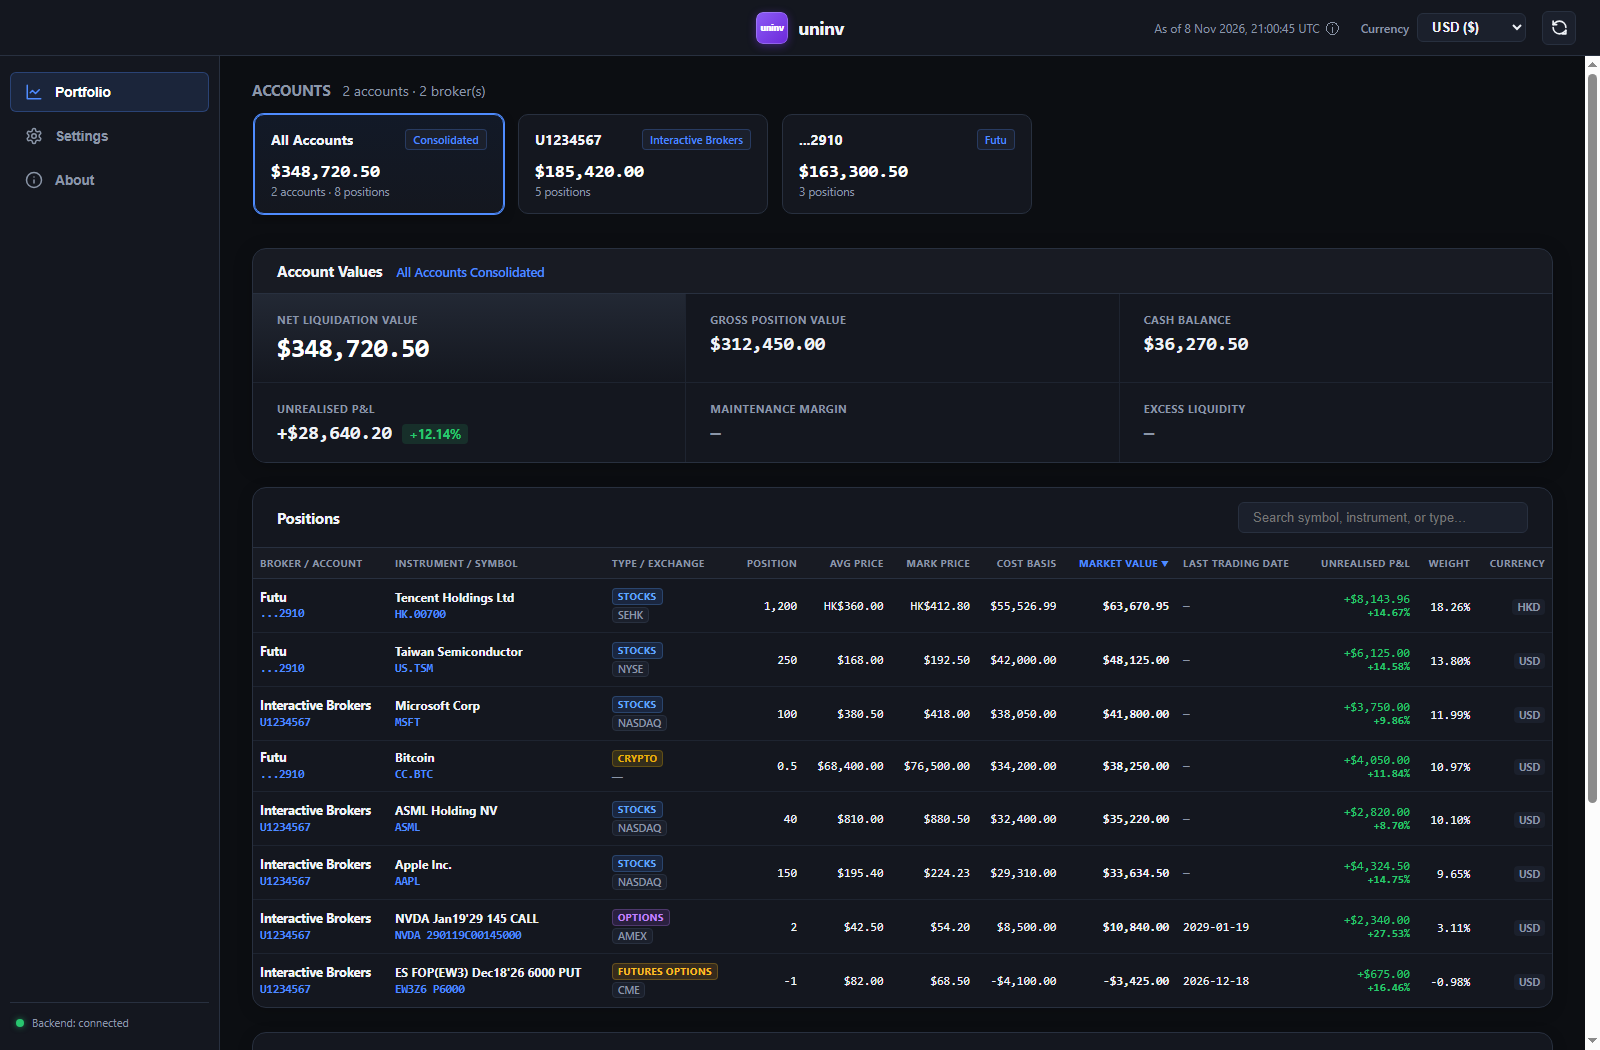
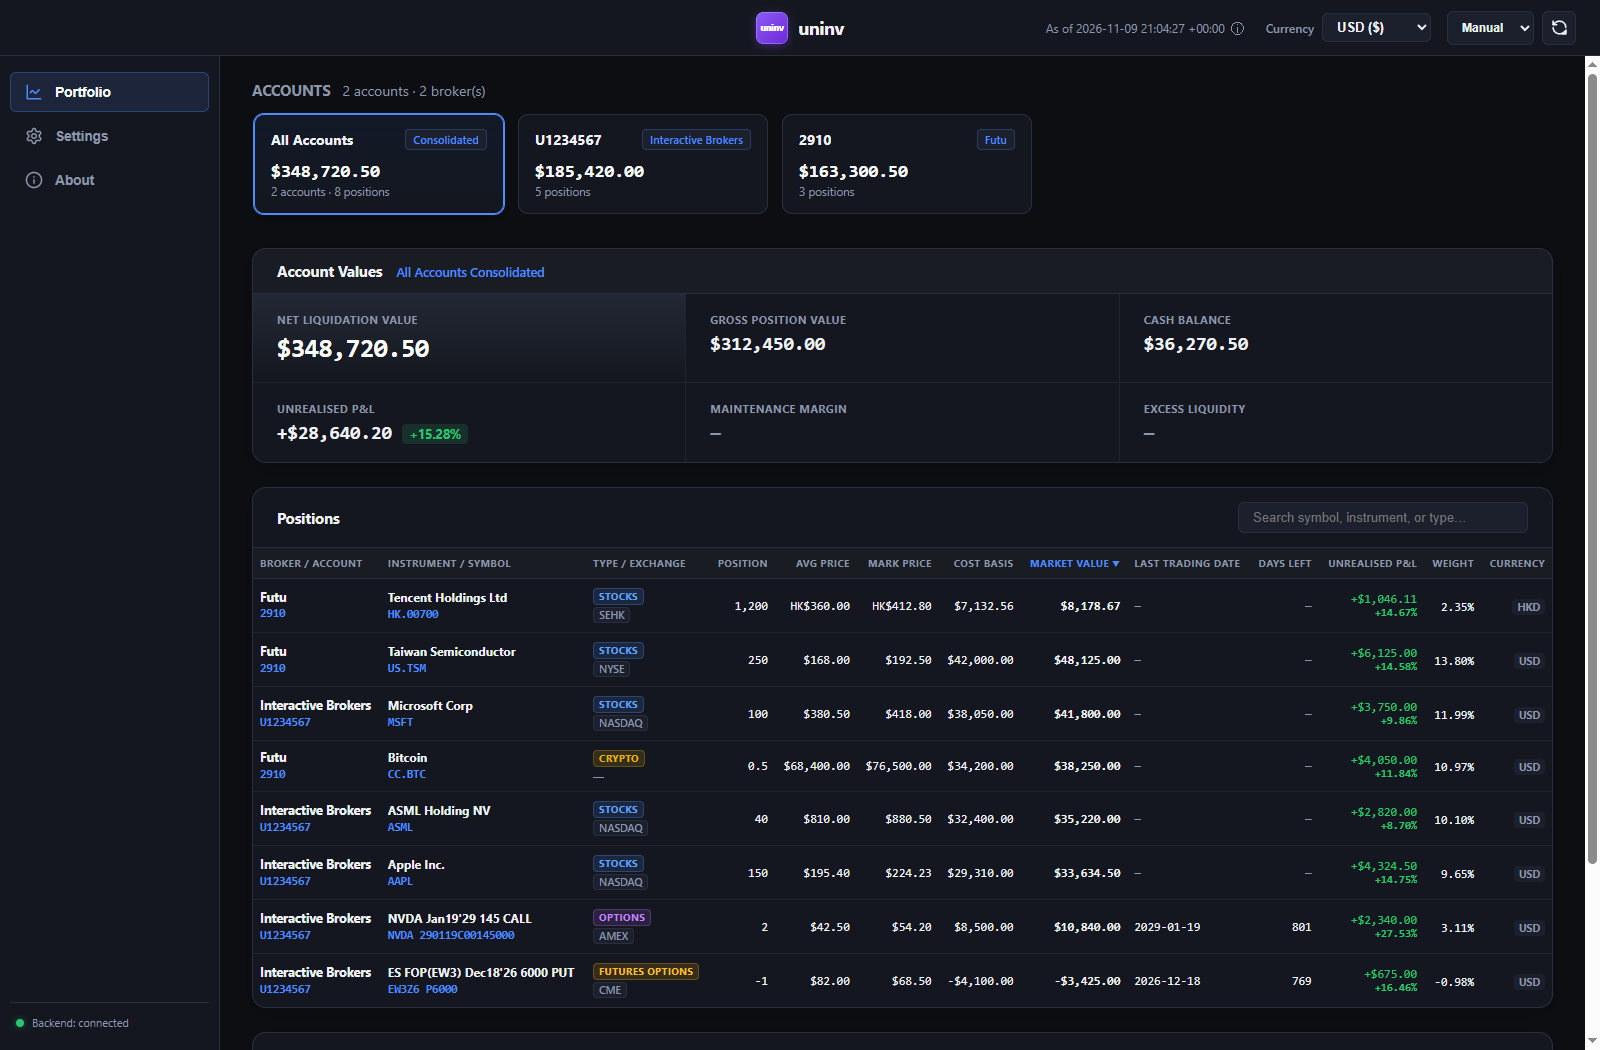
docs(review): finalize documentation, sanitize metadata, and refresh showcase screenshots
- Update README and AGENTS.md with 13-column positions grid, Days Left, and auto-refresh controls
- Update backend test count to 32 tests
- Sanitize author metadata in pyproject.toml
- Refresh showcase screenshots with 100% synthetic mock numbers and mock accounts

diff --git a/README.md b/README.md
@@ -29,12 +29,13 @@ Manage Host/IP and TCP ports for each broker gateway with live socket and handsh
 - **Unidirectional Reactive Portfolio UI:**
   - **Accounts Selector:** Horizontal account tiles. Selecting "All Accounts" presents consolidated figures; selecting an individual account tile filters metrics and holdings to that specific account.
   - **Account Values Board:** Clear 6-item financial ledger:
-    - **Row 1:** Net Liquidation Value, Gross Position Value, Cash Balance (`Cash Balance + Gross Position Value == Net Liquidation Value`).
+    - **Row 1:** Net Liquidation Value, Gross Position Value, Cash Balance.
     - **Row 2:** Unrealised P&L (with % return badge), Maintenance Margin, Excess Liquidity.
-  - **Holdings — 12-Column Positions Table:** Columns from left to right:
-    `Broker / Account` (stacked), `Instrument / Symbol` (stacked), `Type / Exchange` (stacked), `Position`, `Avg Price`, `Mark Price`, `Cost Basis`, `Market Value`, `Last Trading Date`, `Unrealised P&L`, `Weight` (portfolio weight % calculated per active tile scope), `Currency`.
+  - **Holdings — 13-Column Positions Table:** Columns from left to right:
+    `Broker / Account` (stacked), `Instrument / Symbol` (stacked), `Type / Exchange` (stacked), `Position`, `Avg Price`, `Mark Price`, `Cost Basis`, `Market Value`, `Last Trading Date`, `Days Left` (calendar days until expiration for derivatives with smart column sorting), `Unrealised P&L`, `Weight` (portfolio weight % calculated per active tile scope), `Currency`.
     In "All Accounts" mode, positions are displayed additively without forced symbol merging.
   - **Multi-Currency Cash Balances:** Displays raw amounts in original currencies alongside converted values.
+  - **Auto-Refresh & Manual Controls:** Configurable interval selector (`Manual`, `30 secs`, `1 min`, `2 mins`, `5 mins`, `10 mins`) with overlap-skipping execution. Single-click manual refresh button with spinning state animation.
 - **Global FX Matrix & Instant Client-Side Conversion:**
   - Synthesizes a full 11×11 conversion matrix (`USD`, `HKD`, `EUR`, `GBP`, `JPY`, `CAD`, `AUD`, `CHF`, `CNH`, `SGD`, `NZD`) via IDEALPRO quote probes and graph routing.
   - Changing the headbar currency dropdown recalculates the entire dashboard locally with **zero network latency**.

diff --git a/backend/AGENTS.md b/backend/AGENTS.md
@@ -45,6 +45,6 @@ Rules for `backend/`. Root `AGENTS.md` applies too.
     - `strike`: strike price for options.
     - `option_type`: `OptionType.CALL`, `OptionType.PUT`, or `None`.
   - `AccountValues` fields:
-    - Streamlined financial overview: `currency`, `net_liquidation`, `gross_position_value`, `cash_balance` (`net_liquidation - gross_position_value`), `maint_margin_req`, `excess_liquidity`, `unrealized_pnl`, `cash_balances` (multi-currency list with zero filtering `abs(amt) > 1e-8`).
+    - Streamlined financial overview: `currency`, `net_liquidation`, `gross_position_value`, `cash_balance` (directly from broker feed: `TotalCashValue` / `cash`), `maint_margin_req`, `excess_liquidity`, `unrealized_pnl`, `cash_balances` (multi-currency list with zero filtering `abs(amt) > 1e-8`).
 - Dependencies: `uv add <pkg>` / `uv add --dev <pkg>`; commit `uv.lock`.
 - Tests live in `tests/`, using `fastapi.testclient.TestClient`.

diff --git a/backend/README.md b/backend/README.md
@@ -37,7 +37,7 @@ src/uninv_backend/
     ├── __init__.py
     └── routes.py      # REST endpoints under /api/v1
 tests/
-    └── test_api.py    # Comprehensive test suite (31 tests)
+    └── test_api.py    # Comprehensive test suite (32 tests)
 ```
 
 ---
